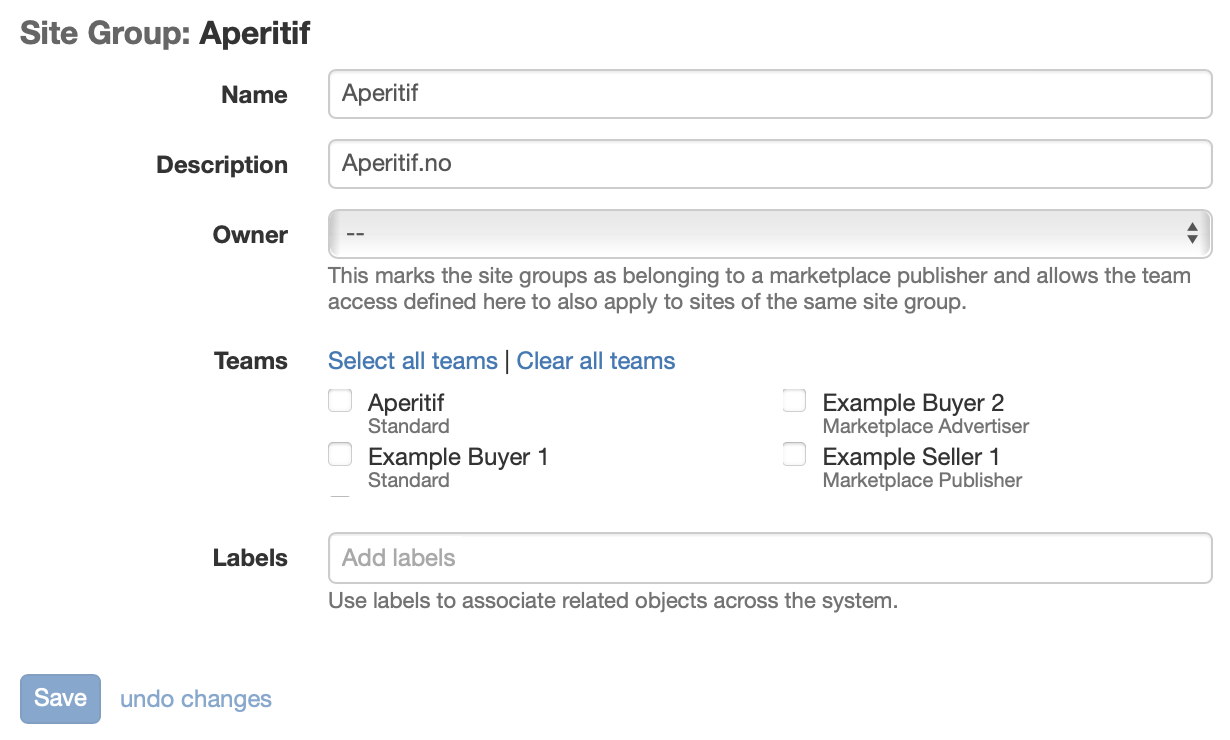
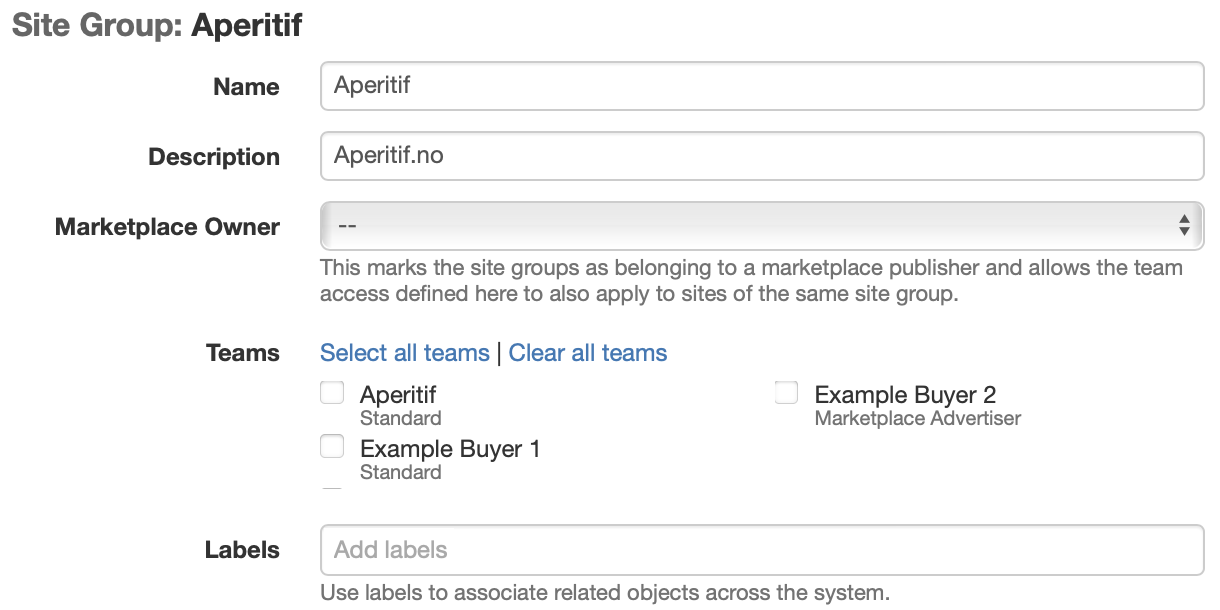
GitBook: [#560] No subject

diff --git a/adnuntius-advertising/admin-ui/inventory/sites.md b/adnuntius-advertising/admin-ui/inventory/sites.md
@@ -16,7 +16,7 @@ A Site belongs to an Earnings Account, and can contain multiple Ad Units as its 
 
 To create a site, [go to Sites under the Inventory section](https://admin.adnuntius.com/sites), and then click "new" in the upper right corner.
 
-<figure><img src="../../../.gitbook/assets/CreateSite.png" alt=""><figcaption></figcaption></figure>
+<figure><img src="../../../.gitbook/assets/CreateSite (2).png" alt=""><figcaption></figcaption></figure>
 
 Give your site a **name** and optional **description**. The **site URL** can be added, and if so then it can be used by anyone targeting their campaigns to find ad units under the URL you specify here.
 
@@ -32,7 +32,7 @@ You can specify how ads should be **rendered** onto your website. If you have a 
 
 **Rate limits** allows you to limit the traffic (viewable/visible/rendered/regular impressions or clicks) that a site or ad unit receives in a given timeframe. A rate limit may be useful to ad networks that are allowed to sell only a defined set of impressions on a publisher’s behalf. If this applies to you, simply add the number of impressions, clicks or other that you are allowed to sell, then choose the period. You can also add labels if the limitation should apply only to certain line items. For example, if you add “cars” to the label field, then the rate limit will apply to all line items with the label "cars", while all other line items will be free to deliver without limitation.
 
-Assign a site **Owner** to mark that the site belongs to a marketplace publisher who obtains exclusive editing rights (only relevant for marketplace publishers).
+Assign a **Marketplace** **Owner** to mark that the site belongs to a marketplace publisher who obtains exclusive editing rights (only relevant for marketplace publishers).
 
 Assign the [**Teams**](../users/users-teams-and-roles-1.md) **** of users who should have access to book campaigns targeted to this site and/or manage the site (their privileges are determined by [Roles](../users/users-teams-and-roles-2.md)).
 

diff --git a/adnuntius-advertising/admin-ui/inventory/site-groups.md b/adnuntius-advertising/admin-ui/inventory/site-groups.md
@@ -17,7 +17,7 @@ To create a site group [go to Site Groups under the Inventory section](https://a
 
 <figure><img src="../../../.gitbook/assets/SiteGroup.png" alt=""><figcaption></figcaption></figure>
 
-Assign a site group **Owner** to mark that the site group belongs to a marketplace publisher and allows the team access defined here to also apply to sites of the same site group.
+Assign a **Marketplace** **Owner** to mark that the site group belongs to a marketplace publisher and allows the team access defined here to also apply to sites of the same site group.
 
 Choose the [**teams** ](../users/users-teams-and-roles-1.md)that should have access to target line items and creatives to this site group. Then click save.
 
